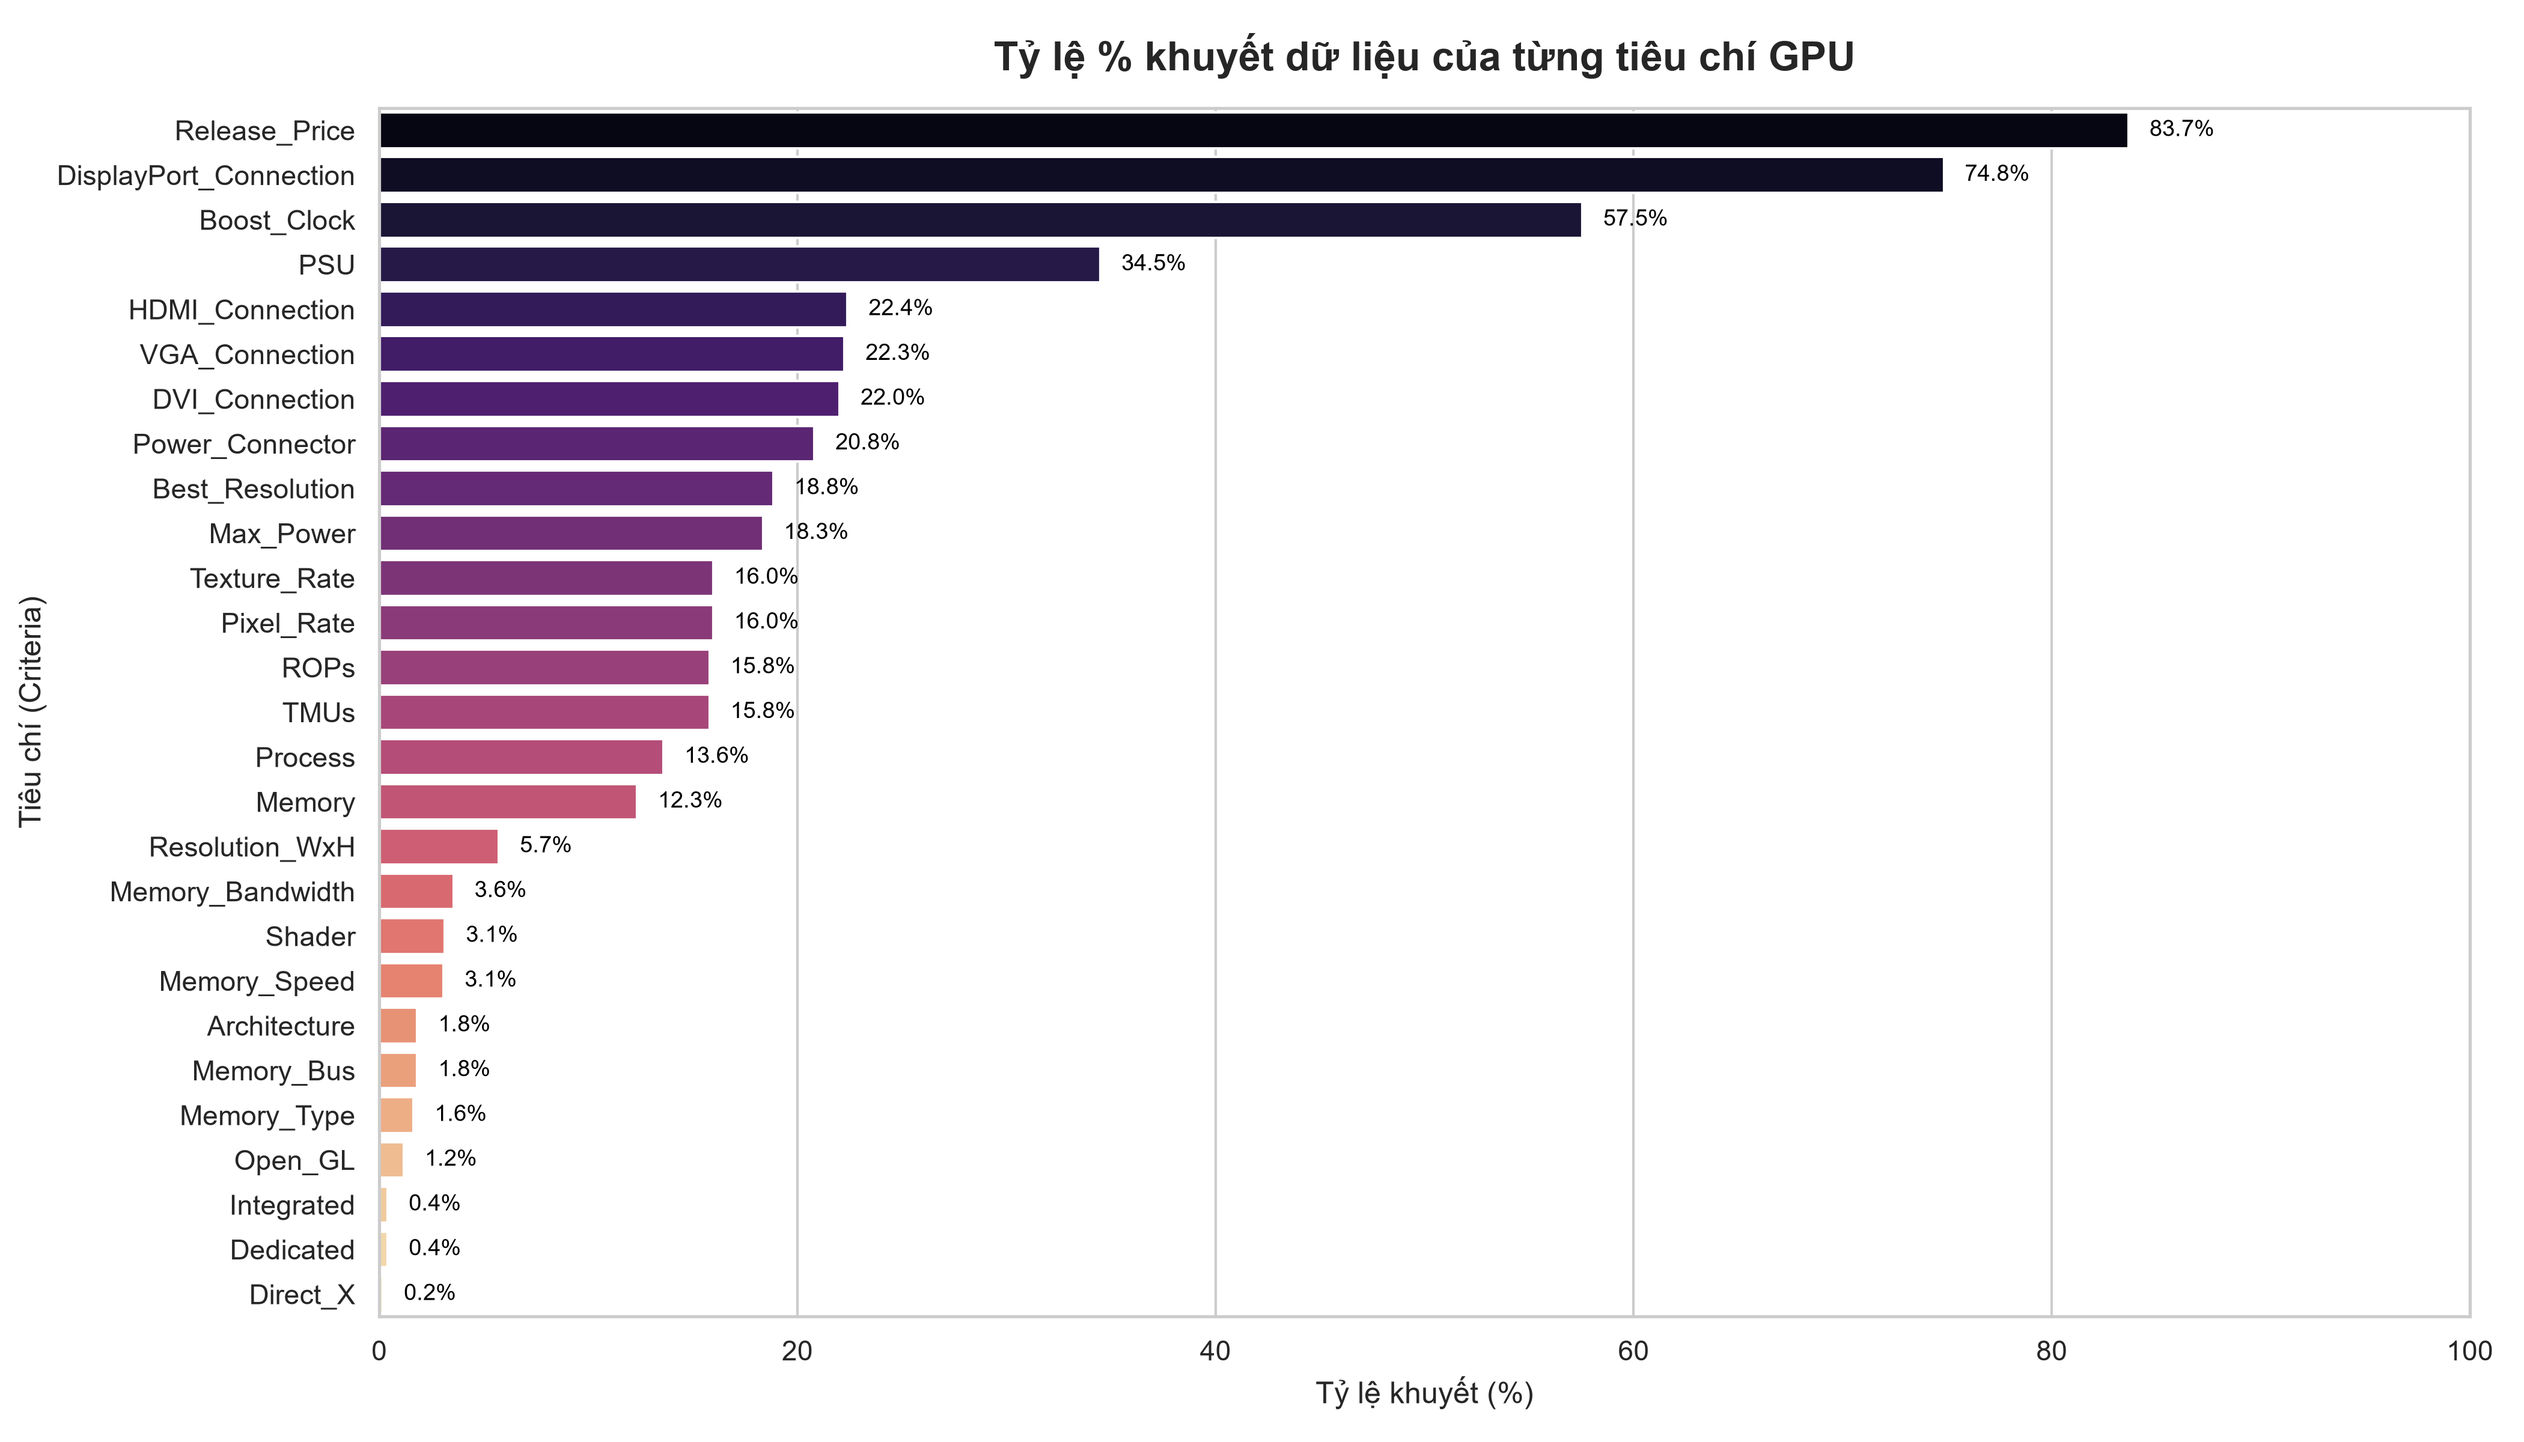
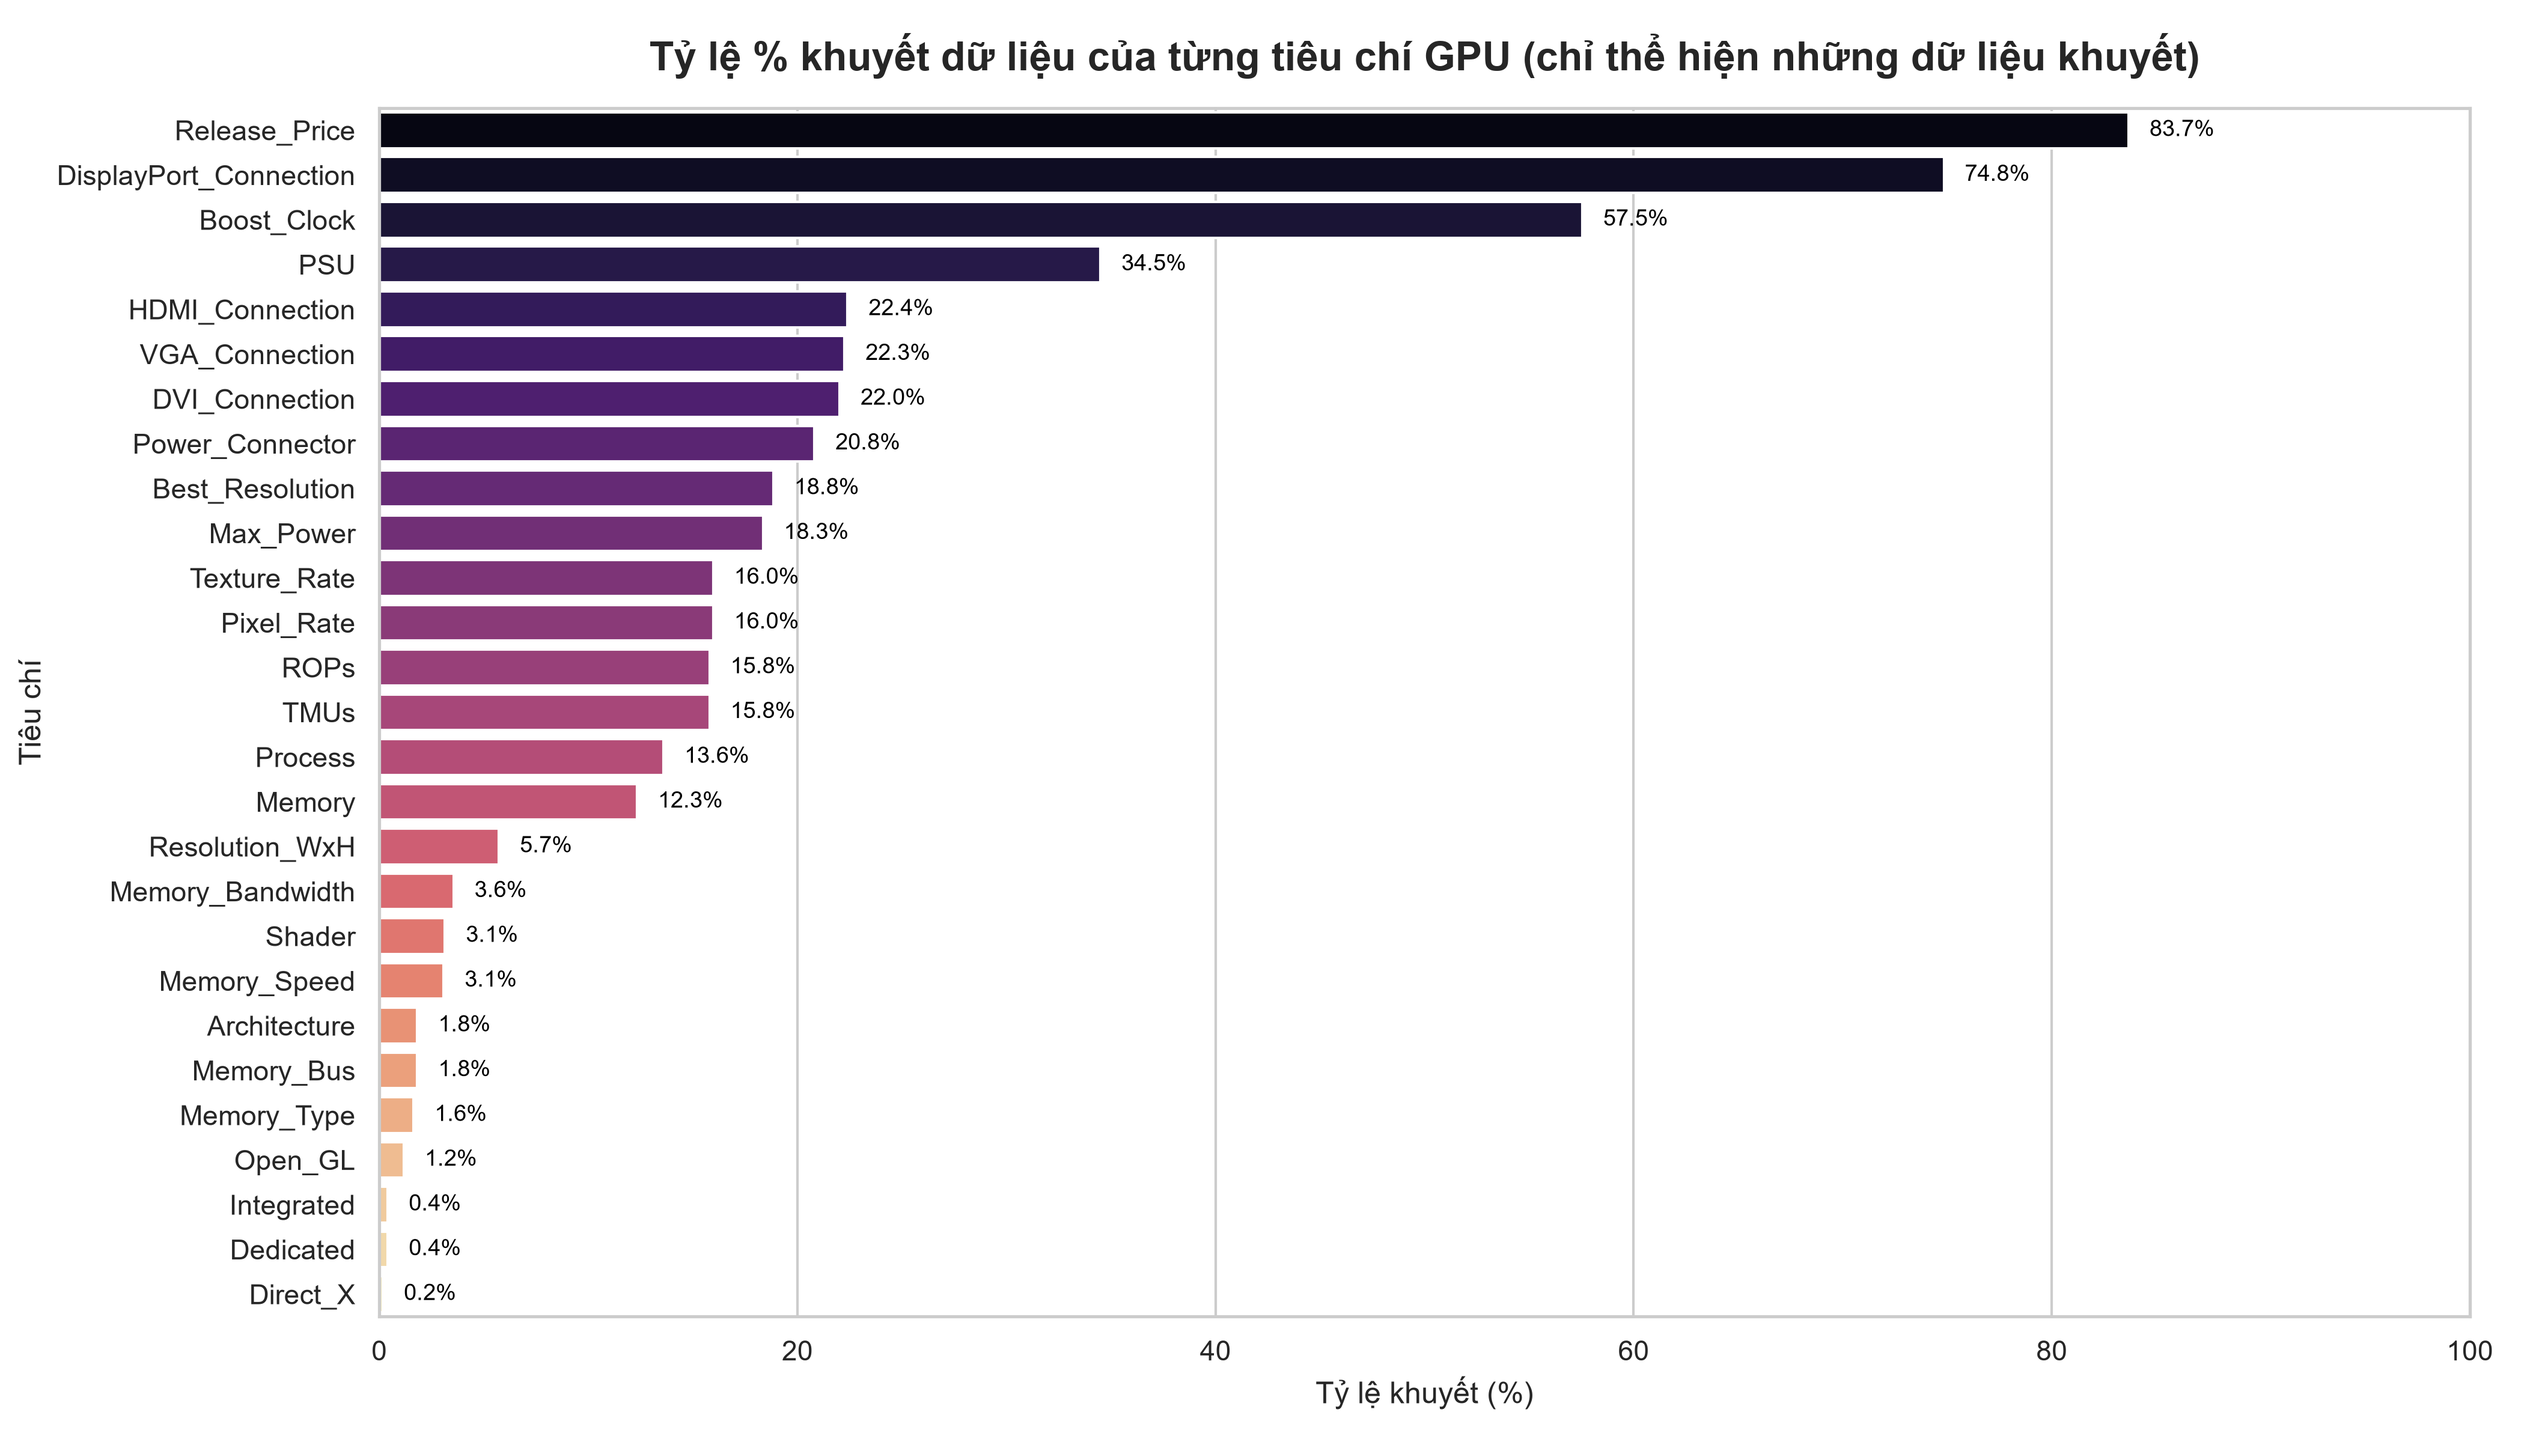
fix comment and print

Changed region(s): [[0.2495, 0.0312, 0.8733, 0.0625], [0.0, 0.4375, 0.0312, 0.5312]]

diff --git a/Preprocessing/finalprocessing.py b/Preprocessing/finalprocessing.py
@@ -7,10 +7,6 @@ def audit_and_clean_gpu_dataset(
     output_path: str
 ) -> Tuple[pd.DataFrame, Dict[str, Any]]:
     """
-    HÀM TÍCH HỢP 2-IN-1: KIỂM TRA LOGIC & XUẤT FILE KẾT QUẢ
-
-    Quy trình xử lý:
-    ----------------
     1. Đọc file nguyên trạng và kiểm kê tỷ lệ giá trị khuyết thiếu (NaN).
     2. Kiểm tra các điều kiện logic cứng (Ràng buộc miền giá trị phần cứng,
        công thức quy đổi MB/GB, danh mục hợp lệ).
@@ -24,7 +20,7 @@ def audit_and_clean_gpu_dataset(
     """
     df = pd.read_csv(input_path)
     original_shape = df.shape
-    # Nhật ký ghi nhận xử lý
+    # Log xử lý
     audit_log = {
         "original_shape": original_shape,
         "missing_summary": None,
@@ -40,7 +36,7 @@ def audit_and_clean_gpu_dataset(
     audit_log["removed_exact_duplicates"] = exact_dup_count
 
     # BƯỚC 4: KIỂM TRA & BỎ CÁC DÒNG VI PHẠM LOGIC CỨNG
-    #Chỉ số phần cứng không được <= 0 (bỏ qua giá trị NaN)
+    # Chỉ số phần cứng không được <= 0 (bỏ qua giá trị NaN)
     hw_cols = [
         'Max_Power_Watts', 'Memory_MB', 'Memory_GB',
         'Memory_Bus_Bit', 'Memory_Bandwidth_GBs', 'Memory_Speed_MHz'
@@ -52,7 +48,6 @@ def audit_and_clean_gpu_dataset(
     mem_mismatch_mask = valid_mem_mask & ((df['Memory_GB'] - (df['Memory_MB'] / 1024.0)).abs() > 1e-4)
 
   # Giá trị danh mục không thuộc tập hợp cho phép
-
       # 1. Khai báo các tập hợp danh mục chuẩn theo ngành phần cứng GPU)
     DOMAIN_VALID_MANUFACTURERS = {
         'NVIDIA', 'AMD', 'INTEL', 'ATI', '3DFX', 'MATROX',
@@ -84,8 +79,7 @@ def audit_and_clean_gpu_dataset(
         df = df[~total_invalid_mask].reset_index(drop=True)
     audit_log["removed_invalid_logic"] = invalid_rows_count
 
-    # --- BƯỚC 5: XỬ LÝ TRÙNG LẶP KHÓA TÊN GPU (DUPLICATE NAMES) ---
-    # Chiến lược bảo tồn: Sắp xếp theo số lượng cột có dữ liệu (non-null count) giảm dần,
+    # BƯỚC 5: XỬ LÝ TRÙNG LẶP KHÓA TÊN GPU
     # giữ lại dòng chứa nhiều thông tin nhất của GPU đó.
     initial_name_dup = df['Name'].duplicated().sum()
     if initial_name_dup > 0:
@@ -98,7 +92,7 @@ def audit_and_clean_gpu_dataset(
         df = df.drop(columns=['__data_density']).reset_index(drop=True)
     audit_log["duplicate_names_handled"] = initial_name_dup
 
-    # --- BƯỚC 6: ĐỊNH DẠNG KIỂU DỮ LIỆU TỐI ƯU CHO PHÂN TÍCH ---
+    # BƯỚC 6: ĐỊNH DẠNG KIỂU DỮ LIỆU TỐI ƯU CHO PHÂN TÍCH
     if 'Release_Year' in df.columns:
         df['Release_Year'] = df['Release_Year'].astype('Int64')
     if 'Release_Month' in df.columns:
@@ -106,18 +100,18 @@ def audit_and_clean_gpu_dataset(
     if 'Is_Notebook' in df.columns:
         df['Is_Notebook'] = df['Is_Notebook'].astype('int64')
 
-    # --- BƯỚC 7: XUẤT FILE CSV CUỐI CÙNG ---
+    # BƯỚC 7: XUẤT FILE CSV CUỐI CÙNG
     df.to_csv(output_path, index=False)
     audit_log["final_shape"] = df.shape
 
-    print("\n2. KẾT QUẢ XỬ LÝ & LÀM SẠCH LOGIC:")
+    print("\n1. KẾT QUẢ XỬ LÝ LOGIC:")
     print(f"   - Dòng trùng lặp 100% bị xóa: {audit_log['removed_exact_duplicates']}")
     print(f"   - Dòng vi phạm logic kỹ thuật/phần cứng bị xóa: {audit_log['removed_invalid_logic']}")
     print(f"   - GPU trùng tên đã được xử lý (Giữ dòng tối ưu nhất): {audit_log['duplicate_names_handled']}")
 
-    print("\n3. TỔNG KẾT ĐẦU RA:")
-    print(f"   - Kích thước tập dữ liệu cuối cùng: {df.shape[0]} dòng, {df.shape[1]} cột")
-    print(f"   - Xuất file thành công tại: {output_path}")
+    print("\n 2. TỔNG KẾT ĐẦU RA:")
+    print(f"- Kích thước tập dữ liệu cuối cùng: {df.shape[0]} dòng, {df.shape[1]} cột")
+    print(f"- Xuất file thành công tại: {output_path}")
 
     return df, audit_log
 

diff --git a/Preprocessing/standardlizaiton.py b/Preprocessing/standardlizaiton.py
@@ -3,8 +3,6 @@ import numpy as np
 # 1. ĐỌC DỮ LIỆU
 file_path = "GPU_10_Features.csv"
 df = pd.read_csv(file_path, encoding="utf-8-sig")
-# print(f"=== KÍCH THƯỚC BAN ĐẦU: {df.shape[0]} dòng, {df.shape[1]} cột ===")
-# 2. CHUẨN HÓA CHUỖI VĂN BẢN
 text_cols = ["Name", "Manufacturer", "Notebook_GPU", "Memory_Type", "Release_Date"]
 for col in text_cols:
     df[col] = (
@@ -16,35 +14,27 @@ for col in text_cols:
 df["Manufacturer"] = df["Manufacturer"].str.title().replace({"Nvidia": "NVIDIA", "Amd": "AMD", "Ati": "ATI"})
 df["Memory_Type"] = df["Memory_Type"].str.upper().replace({"EDRAM": "eDRAM"})
 
-# Mã hóa Notebook_GPU: Yes -> 1, No -> 0, Khuyết -> NaN (Kiểu Int64 hỗ trợ NaN)
+# Chỉnh Notebook_GPU: Yes = 1, No = 0, Khuyết = NaN (Kiểu Int64 hỗ trợ NaN)
 df["Is_Notebook"] = df["Notebook_GPU"].str.lower().map({"yes": 1, "no": 0}).astype("Int64")
-
-
-# 3. TRÍCH XUẤT DỮ LIỆU SỐ (Dữ liệu khuyết tự động thành NaN)
-
+# 3. TRÍCH XUẤT DỮ LIỆU SỐ (Dữ liệu khuyết: NaN)
 def extract_number(series):
-    """Trích xuất số float. Không tìm thấy số -> trả về NaN"""
     return pd.to_numeric(
         series.astype("string").str.replace(",", "", regex=False).str.extract(r"(\d+\.?\d*)")[0],
         errors="coerce",
     )
-df["Max_Power_Watts"]  = extract_number(df["Max_Power"])
-df["Memory_MB"]        = extract_number(df["Memory"])
-df["Memory_Bus_Bit"]   = extract_number(df["Memory_Bus"])
+df["Max_Power_Watts"] = extract_number(df["Max_Power"])
+df["Memory_MB"]= extract_number(df["Memory"])
+df["Memory_Bus_Bit"] = extract_number(df["Memory_Bus"])
 df["Memory_Speed_MHz"] = extract_number(df["Memory_Speed"])
 # Xử lý Memory_Bandwidth (Quy về GB/sec, giữ NaN nếu thiếu)
 bw_extracted = extract_number(df["Memory_Bandwidth"])
 is_mb = df["Memory_Bandwidth"].astype("string").str.contains("MB/sec", case=False, na=False)
 df["Memory_Bandwidth_GBs"] = np.where(is_mb, bw_extracted / 1000.0, bw_extracted)
 
-# Quy đổi Memory sang GB (NaN / 1024 vẫn ra NaN)
+# Quy đổi Memory sang GB
 df["Memory_GB"] = df["Memory_MB"] / 1024.0
-
-# =====================================================================
 # 4. CHUẨN HÓA NÀY GIỜ (Khuyết -> NaT / NaN)
-# =====================================================================
 date_parsed = pd.to_datetime(df["Release_Date"], format="%d-%b-%Y", errors="coerce")
-
 df["Release_Year"]  = date_parsed.dt.year.astype("Int64")   # Giữ NaN chuẩn dạng số nguyên
 df["Release_Month"] = date_parsed.dt.month.astype("Int64")  # Giữ NaN chuẩn dạng số nguyên
 df["Release_Date_Parsed"] = date_parsed.dt.strftime("%Y-%m-%d")
@@ -57,13 +47,7 @@ final_cols = [
     "Max_Power_Watts", "Memory_MB", "Memory_GB",
     "Memory_Bus_Bit", "Memory_Bandwidth_GBs", "Memory_Speed_MHz"
 ]
-
 df_final = df[final_cols].rename(columns={"Release_Date_Parsed": "Release_Date"})
-
 # Xuất file CSV (Pandas sẽ ghi các ô NaN thành ô trống rỗng)
 output_file = "GPU_10_Features_Clean_NaN.csv"
 df_final.to_csv(output_file, index=False, encoding="utf-8-sig")
-
-# print(f"\n=== ĐÃ LƯU FILE THÀNH CÔNG: {output_file} ===")
-# print("=== THỐNG KÊ MÔ TẢ TRỰC TIẾP (PANDAS TỰ ĐỘNG BỎ QUA NaN) ===")
-# print(df_final[["Max_Power_Watts", "Memory_MB", "Memory_Bandwidth_GBs"]].describe().round(2))

diff --git a/Preprocessing/preprocessor.py b/Preprocessing/preprocessor.py
@@ -6,9 +6,6 @@ import seaborn as sns
 def generate_missing_data_plots(file_path: str, show_plot: bool = True, save_plot: bool = True):
     """
     Đọc dữ liệu GPU và trực quan hóa độ khuyết dữ liệu bằng biểu đồ.
-    Hoàn toàn không in bất kỳ thông tin nào ra Terminal.
-
-    Parameters:
         file_path (str): Đường dẫn tới tập tin CSV (ví dụ: 'All_GPUs.csv')
         show_plot (bool): Hiển thị biểu đồ ra màn hình nếu là True.
         save_plot (bool): Lưu biểu đồ thành file hình ảnh nếu là True.
@@ -29,7 +26,7 @@ def generate_missing_data_plots(file_path: str, show_plot: bool = True, save_plo
     # Cấu hình giao diện Seaborn
     sns.set_theme(style="whitegrid")
 
-    # --- Biểu đồ 1: Biểu đồ cột tỷ lệ khuyết dữ liệu theo tiêu chí ---
+    # Biểu đồ 1: Biểu đồ cột tỷ lệ khuyết dữ liệu theo tiêu chí
     missing_only = missing_summary[missing_summary['Missing_Count'] > 0]
 
     if not missing_only.empty:
@@ -42,9 +39,9 @@ def generate_missing_data_plots(file_path: str, show_plot: bool = True, save_plo
             palette='magma'
         )
 
-        plt.title('Tỷ lệ % khuyết dữ liệu của từng tiêu chí GPU', fontsize=16, fontweight='bold', pad=15)
+        plt.title('Tỷ lệ % khuyết dữ liệu của từng tiêu chí GPU (chỉ thể hiện những dữ liệu khuyết)', fontsize=16, fontweight='bold', pad=15)
         plt.xlabel('Tỷ lệ khuyết (%)', fontsize=12)
-        plt.ylabel('Tiêu chí (Criteria)', fontsize=12)
+        plt.ylabel('Tiêu chí', fontsize=12)
         plt.xlim(0, 100)
 
         # Hiển thị con số % chính xác lên trên từng thanh biểu đồ
@@ -65,37 +62,7 @@ def generate_missing_data_plots(file_path: str, show_plot: bool = True, save_plo
             plt.show()
         else:
             plt.close()
-
-    # --- Biểu đồ 2: Heatmap tương quan khuyết dữ liệu giữa các thuộc tính ---
-    cols_with_missing = df.columns[df.isnull().any()].tolist()
-
-    if cols_with_missing:
-        plt.figure(figsize=(12, 10))
-
-        # Ma trận Boolean (True khi ô bị khuyết/NaN)
-        null_matrix = df[cols_with_missing].isnull()
-
-        # Ma trận tương quan giữa sự khuyết dữ liệu của các cột
-        corr_matrix = null_matrix.corr()
-
-        sns.heatmap(
-            corr_matrix,
-            cmap='coolwarm',
-            annot=False,
-            linewidths=0.5,
-            cbar_kws={'label': 'Hệ số tương quan khuyết (1 = Khuyết cùng nhau)'}
-        )
-
-        plt.title('Ma trận tương quan khuyết dữ liệu (Missingness Correlation)', fontsize=14, fontweight='bold')
-        plt.tight_layout()
-        if save_plot:
-            plt.savefig('missing_data_correlation.png', dpi=300)
-        if show_plot:
-            plt.show()
-        else:
-            plt.close()
-
-# --- Thực thi chương trình ---
+# Thực thi chương trình
 if __name__ == "__main__":
-    file_path = "All_GPUs.csv"
+    file_path = "../All_GPUs.csv"
     generate_missing_data_plots(file_path, show_plot=True, save_plot=True)

diff --git a/Preprocessing/Datachecking.py b/Preprocessing/Datachecking.py
@@ -28,6 +28,6 @@ def check_csv_dtypes(file_path: str):
     print(report_df.to_string(index=False))
 
 if __name__ == "__main__":
-    target_file = "GPU_10_Features.csv"
+    target_file = "GPU_10_Features_Processed_Final.csv"
 
     check_csv_dtypes(target_file)
